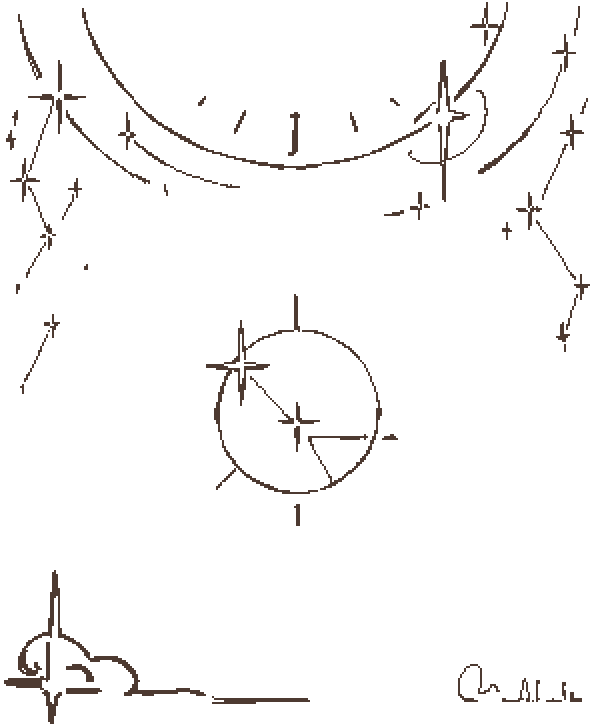
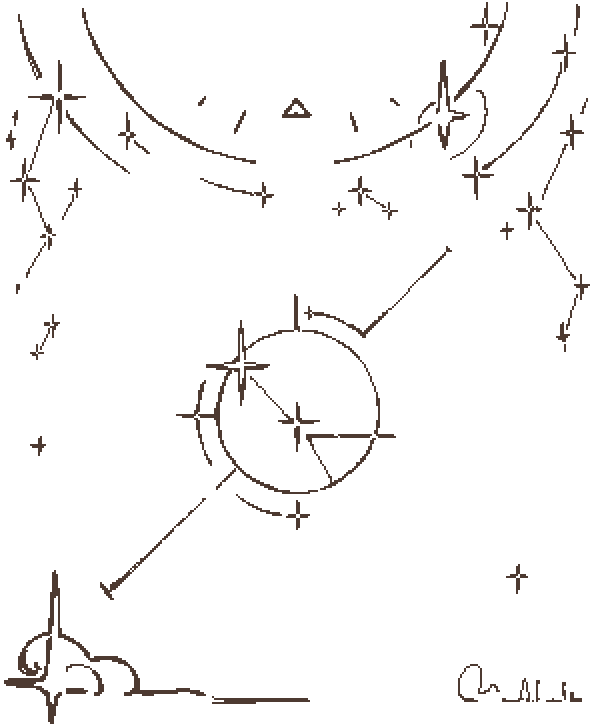
常规同步

diff --git a/Content/UI/NewKnowledgeUnlock/NewKnowledgeBar.cs b/Content/UI/NewKnowledgeUnlock/NewKnowledgeBar.cs
@@ -1,6 +1,7 @@
 using Coralite.Content.CoraliteNotes;
+using Coralite.Core;
 using Coralite.Core.Loaders;
-using Coralite.Core.Systems.KeySystem;
+using Coralite.Helpers;
 using InnoVault.PRT;
 using Microsoft.Xna.Framework.Graphics;
 using Terraria;
@@ -11,10 +12,20 @@ namespace Coralite.Content.UI.NewKnowledgeUnlock
     public class NewKnowledgeBar : UIElement
     {
         public PRTGroup group;
-        public int Timer;
+        public float Timer;
 
         public Vector2 size;
 
+        public static int StartTime = 20;
+        public static int ContiuneTime = 60*4;
+        public static int FadeOutTime= 10;
+
+
+        public NewKnowledgeBar()
+        {
+            this.SetSize(new Vector2(200,120));
+            OverflowHidden = false;
+        }
 
         public override void LeftClick(UIMouseEvent evt)
         {
@@ -26,6 +37,7 @@ namespace Coralite.Content.UI.NewKnowledgeUnlock
         public override void Update(GameTime gameTime)
         {
             base.Update(gameTime);
+            UpdateBar();
         }
 
         public void UpdateBar()
@@ -43,40 +55,73 @@ namespace Coralite.Content.UI.NewKnowledgeUnlock
         protected override void DrawSelf(SpriteBatch spriteBatch)
         {
             NewKnowledgeInfo info = NewKnowledgeState.Infos.First.Value;
+            var dimensions = GetDimensions();
 
-            Rectangle scissorRectangle = spriteBatch.GraphicsDevice.ScissorRectangle;
             SamplerState anisotropicClamp = SamplerState.AnisotropicClamp;
 
+            Effect e;
+
+            #region 绘制线条
+
+            Vector2 linePos = dimensions.Center() - new Vector2(0, dimensions.Height / 6-5);
+            float lineFactor;
+            if (Timer <= StartTime)
+                lineFactor = Helper.SqrtEase(Timer / StartTime);
+            else if (Timer < StartTime + ContiuneTime)
+                lineFactor = 1 - (Timer - StartTime) / ContiuneTime;
+            else
+                lineFactor = 0;
+
+            if (lineFactor != 0)
+            {
+                e = ShaderLoader.GetShader("SinLine");
+                e.Parameters["flowPercent"].SetValue(0.06f);
+                float time = (float)Main.timeForVisualEffects * 0.02f;
+                float flowTime = -(float)Main.timeForVisualEffects * 0.003f;
+                e.Parameters["uTime"].SetValue(time);
+                e.Parameters["uFlowTime"].SetValue(flowTime);
+
+                spriteBatch.End();
+                spriteBatch.Begin(SpriteSortMode.Immediate, BlendState.AlphaBlend, SamplerState.PointWrap, DepthStencilState.None, EffectLoader.OverflowHiddenRasterizerState, e, Main.UIScaleMatrix);
+
+                DrawLine(spriteBatch, linePos, 0);
+            }
+
+            #endregion
+
+            #region 绘制背景
+
+            e = ShaderLoader.GetShader("Waterflow");
+            e.Parameters["uFlowTex"].SetValue(CoraliteAssets.Laser.WaterFlow.Value);
+            e.Parameters["uTime"].SetValue((float)Main.timeForVisualEffects);
+            e.Parameters["addCount"].SetValue(0.2f);
+
             spriteBatch.End();
-            Rectangle clippingRectangle = GetClippingRectangle(spriteBatch);
-
-            Rectangle adjustedClippingRectangle = Rectangle.Intersect(clippingRectangle, spriteBatch.GraphicsDevice.ScissorRectangle);
-            spriteBatch.GraphicsDevice.ScissorRectangle = adjustedClippingRectangle;
-            spriteBatch.GraphicsDevice.RasterizerState = EffectLoader.OverflowHiddenRasterizerState;
-            
-            Effect e = ShaderLoader.GetShader("SinLine");
-            e.Parameters["flowPercent"].SetValue(0.06f);
-            float time = (float)Main.timeForVisualEffects * 0.02f;
-            float flowTime = -(float)Main.timeForVisualEffects * 0.003f;
-            e.Parameters["uTime"].SetValue(time);
-            e.Parameters["uFlowTime"].SetValue(flowTime);
-
             spriteBatch.Begin(SpriteSortMode.Immediate, BlendState.AlphaBlend, SamplerState.PointWrap, DepthStencilState.None, EffectLoader.OverflowHiddenRasterizerState, e, Main.UIScaleMatrix);
 
-            //绘制线条
-            DrawLine(spriteBatch,Vector2.Zero,0);
+            Vector2 BackTop = dimensions.Center() - new Vector2(0, dimensions.Height / 6);
+            float backFactor;
+            if (Timer <= StartTime)
+                backFactor = Timer / StartTime;
+            else if (Timer < StartTime + ContiuneTime)
+                backFactor = 1;
+            else
+                backFactor = (Timer - StartTime - ContiuneTime)/ FadeOutTime;
+
+            DrawBack(spriteBatch, BackTop, new Vector2(dimensions.Width, dimensions.Height * 2 / 3), backFactor);
+
+            #endregion
 
             RasterizerState rasterizerState = spriteBatch.GraphicsDevice.RasterizerState;
 
             spriteBatch.End();
-            spriteBatch.GraphicsDevice.ScissorRectangle = scissorRectangle;
             spriteBatch.GraphicsDevice.RasterizerState = rasterizerState;
             spriteBatch.Begin(SpriteSortMode.Deferred, BlendState.AlphaBlend, anisotropicClamp, DepthStencilState.None, rasterizerState, null, Main.UIScaleMatrix);
 
             group?.DrawInUI(spriteBatch);
         }
 
-        public void DrawLine(SpriteBatch spriteBatch, Vector2 center, float factor)
+        public static void DrawLine(SpriteBatch spriteBatch, Vector2 center, float factor)
         {
             Texture2D tex = CoraliteNoteSystem.NoteConnectLine.Value;
             Vector2 left = center + new Vector2(-80 * factor, 0);
@@ -86,17 +131,20 @@ namespace Coralite.Content.UI.NewKnowledgeUnlock
             spriteBatch.Draw(tex, left, null, Color.White, dir.ToRotation(), new Vector2(0, tex.Height / 2), new Vector2(dir.Length() / tex.Width, 64f / tex.Height), 0, 0);
         }
 
-        public void DrawBack(SpriteBatch spriteBatch)
+        public static void DrawBack(SpriteBatch spriteBatch,Vector2 top,Vector2 size,float factor)
+        {
+            Texture2D tex = CoraliteNoteSystem.NewTextBarBack.Value;
+            Vector2 origin = new Vector2(tex.Width / 2, 0);
+
+            spriteBatch.Draw(tex, top, null, new Color(21, 140, 176)* factor, 0, origin, size / tex.Size(), 0, 0);
+        }
+
+        public void DrawIcon(SpriteBatch spriteBatch, NewKnowledgeInfo info)
         {
 
         }
 
-        public void DrawIcon(SpriteBatch spriteBatch)
-        {
-
-        }
-
-        public void DrawText(SpriteBatch spriteBatch)
+        public void DrawText(SpriteBatch spriteBatch, NewKnowledgeInfo info)
         {
 
         }

diff --git a/Content/CoraliteNotes/SteelChapter/SteelPage1.cs b/Content/CoraliteNotes/SteelChapter/SteelPage1.cs
@@ -1,0 +1,35 @@
+using Microsoft.Xna.Framework.Graphics;
+using Terraria.ID;
+using Terraria.Localization;
+
+namespace Coralite.Content.CoraliteNotes.SteelChapter
+{
+    public class SteelPage1 : ItemShowPage
+    {
+        public static LocalizedText Title { get; private set; }
+        public static LocalizedText Description { get; private set; }
+
+        public override void OnInitialize()
+        {
+            Title = this.GetLocalization(nameof(Title));
+            Description = this.GetLocalization(nameof(Description));
+            AddImages();
+        }
+
+        public override void AddImages()
+        {
+            int x = -260;
+            int y = 100;
+            ItemShowImage i0_0 = NewImage(ItemID.IronBar, new Vector2(x, y), Readfragment.KnowledgeButtonType.None)
+                .SetColor(Color.Brown);
+
+
+        }
+
+        protected override void DrawSelf(SpriteBatch spriteBatch)
+        {
+            DrawTitleH1(spriteBatch, Title, Color.LightGray);
+            DrawParaNormal(spriteBatch, Description, Position.Y + TitleHeight, out _);
+        }
+    }
+}

diff --git a/Content/CoraliteNotes/SteelChapter/SteelKnowledge.cs b/Content/CoraliteNotes/SteelChapter/SteelKnowledge.cs
@@ -1,0 +1,24 @@
+using Coralite.Content.CoraliteNotes.Readfragment;
+using Coralite.Content.Items.Steel;
+using Coralite.Content.UI.UILib;
+using Coralite.Core;
+using Coralite.Core.Systems.KeySystem;
+
+namespace Coralite.Content.CoraliteNotes.SteelChapter
+{
+    public class SteelKnowledge : Knowledge
+    {
+        public override string Texture => AssetDirectory.SteelItems + nameof(SteelBar);
+
+        public override int FirstPageInCoraliteNote => CoraliteNoteUIState.BookPanel.GetPageIndex<SteelPage1>();
+
+        public override KnowledgeButtonType ButtonStyle => KnowledgeButtonType.Metal;
+
+        public override UIPage[] GetUIPages()
+        {
+            return [
+                new SteelPage1()
+                ];
+        }
+    }
+}

diff --git a/Content/CoraliteNotes/GlistentChapter/GlistentChapterPage1.cs b/Content/CoraliteNotes/GlistentChapter/GlistentChapterPage1.cs
@@ -30,14 +30,14 @@ namespace Coralite.Content.CoraliteNotes.GlistentChapter
 
             x += 70;
             Color leafStoneC = new Color(147, 188, 79);
-            ItemShowImage i0_1 = NewImage<LeafStone>(new Vector2(x, y))
+            ItemShowImage i0_1 = NewImage<LeafStone>(new Vector2(x, y), Readfragment.KnowledgeButtonType.Metal)
                 .SetColor(leafStoneC);
             i0_0.AddChainedElement(i0_1);
 
             //叶石装备
-            ItemShowImage i0_2 = NewImage<LeafeoLightArmor>(new Vector2(x, y-190))
+            ItemShowImage i0_2 = NewImage<LeafeoLightArmor>(new Vector2(x, y - 190))
                 .SetColor(leafStoneC);
-            ItemShowImage i0_3 = NewImage<LeafeoHelmet>(new Vector2(x-60, y-120))
+            ItemShowImage i0_3 = NewImage<LeafeoHelmet>(new Vector2(x - 60, y - 120))
                 .SetColor(leafStoneC);
             ItemShowImage i0_4 = NewImage<LeafeoBoots>(new Vector2(x + 60, y - 120))
                 .SetColor(leafStoneC);
@@ -50,7 +50,7 @@ namespace Coralite.Content.CoraliteNotes.GlistentChapter
             i0_1.AddChainedElement(i0_5);
 
 
-            ItemShowImage i1_1 = NewImage<GlistentBar>(new Vector2(0, y), conditions: CoraliteConditions.DownedRediancie)
+            ItemShowImage i1_1 = NewImage<GlistentBar>(new Vector2(0, y), Readfragment.KnowledgeButtonType.Metal, CoraliteConditions.DownedRediancie)
                .SetColor(Coralite.GlistentGreen);
 
             x = 0;
@@ -60,7 +60,7 @@ namespace Coralite.Content.CoraliteNotes.GlistentChapter
             ItemShowImage i1_3 = NewImage(ItemID.CrimtaneBar, new Vector2(-10, y - 90), Readfragment.KnowledgeButtonType.None)
                 .SetColor(Coralite.CrimsonRed);
 
-            ItemShowImage i1_4 = NewImage(ItemID.Diamond, new Vector2(x - 10, y+ 90), Readfragment.KnowledgeButtonType.None)
+            ItemShowImage i1_4 = NewImage(ItemID.Diamond, new Vector2(x - 10, y + 90), Readfragment.KnowledgeButtonType.None)
                 .SetColor(Color.White);
 
             i0_1.AddChainedElement(i1_1);
@@ -71,18 +71,18 @@ namespace Coralite.Content.CoraliteNotes.GlistentChapter
 
             x += 150;
 
-            ItemShowImage i2_1 = NewImage<GlistentHelmet>(new Vector2(x-80, y-200), conditions: CoraliteConditions.DownedRediancie)
-               .SetColor(Coralite.GlistentGreen); 
-            ItemShowImage i2_2 = NewImage<GlistentBreastplate>(new Vector2(x-10, y-160), conditions: CoraliteConditions.DownedRediancie)
+            ItemShowImage i2_1 = NewImage<GlistentHelmet>(new Vector2(x - 80, y - 200), conditions: CoraliteConditions.DownedRediancie)
                .SetColor(Coralite.GlistentGreen);
-            ItemShowImage i2_3 = NewImage<GlistentLegs>(new Vector2(x+60, y-120), conditions: CoraliteConditions.DownedRediancie)
+            ItemShowImage i2_2 = NewImage<GlistentBreastplate>(new Vector2(x - 10, y - 160), conditions: CoraliteConditions.DownedRediancie)
+               .SetColor(Coralite.GlistentGreen);
+            ItemShowImage i2_3 = NewImage<GlistentLegs>(new Vector2(x + 60, y - 120), conditions: CoraliteConditions.DownedRediancie)
                .SetColor(Coralite.GlistentGreen);
 
             i1_1.AddChainedElement(i2_1);
             i1_1.AddChainedElement(i2_2);
             i1_1.AddChainedElement(i2_3);
 
-            ItemShowImage i2_4 = NewImage<GlistentJar>(new Vector2(x -10, y + 160), conditions: CoraliteConditions.DownedRediancie)
+            ItemShowImage i2_4 = NewImage<GlistentJar>(new Vector2(x - 10, y + 160), conditions: CoraliteConditions.DownedRediancie)
                .SetColor(Coralite.GlistentGreen);
             ItemShowImage i2_5 = NewImage<Terranascence>(new Vector2(x + 60, y + 120), conditions: CoraliteConditions.DownedRediancie)
                .SetColor(Coralite.GlistentGreen);
@@ -96,7 +96,7 @@ namespace Coralite.Content.CoraliteNotes.GlistentChapter
 
         protected override void DrawSelf(SpriteBatch spriteBatch)
         {
-            DrawTitleH1(spriteBatch, Title,  Coralite.GlistentGreen);
+            DrawTitleH1(spriteBatch, Title, Coralite.GlistentGreen);
             DrawParaNormal(spriteBatch, Description, Position.Y + TitleHeight, out _);
         }
     }

diff --git a/Core/Assets/CoraliteAssets.cs b/Core/Assets/CoraliteAssets.cs
@@ -356,7 +356,7 @@ namespace Coralite.Core
             public static ATex MultLines { get; private set; }
 
             /// <summary> 
-            /// 多段折现，像是音符连线，字带天蓝色
+            /// 多段折现，像是音符连线，自带天蓝色
             /// </summary>
             public static ATex MusicLine { get; private set; }
 
@@ -366,9 +366,14 @@ namespace Coralite.Core
             public static ATex MultLinesSPA { get; private set; }
 
             /// <summary> 
-            /// 多段折现，像是音符连线，字带天蓝色
+            /// 多段折现，像是音符连线，自带天蓝色
             /// </summary>
             public static ATex MusicLineSPA { get; private set; }
+
+            /// <summary> 
+            /// 水流一样的贴图
+            /// </summary>
+            public static ATex WaterFlow { get; private set; }
         }
 
         /// <summary>

diff --git a/Content/CoraliteNotes/Readfragment/KnowledgeButten.cs b/Content/CoraliteNotes/Readfragment/KnowledgeButten.cs
@@ -22,6 +22,7 @@ namespace Coralite.Content.CoraliteNotes.Readfragment
         Coral,
         Normal,
         Star,
+        Metal,
         None,
     }
 
@@ -35,6 +36,7 @@ namespace Coralite.Content.CoraliteNotes.Readfragment
         public static ATex KnowledgeButtenCoral { get; private set; }
         public static ATex KnowledgeButtenNormal { get; private set; }
         public static ATex KnowledgeButtenStar { get; private set; }
+        public static ATex KnowledgeButtenMetal { get; private set; }
 
         public static ATex NewKnowledge { get; private set; }
 
@@ -50,6 +52,7 @@ namespace Coralite.Content.CoraliteNotes.Readfragment
                 KnowledgeButtonType.Coral => KnowledgeButtenCoral.Value,
                 KnowledgeButtonType.Normal => KnowledgeButtenNormal.Value,
                 KnowledgeButtonType.Star => KnowledgeButtenStar.Value,
+                KnowledgeButtonType.Metal => KnowledgeButtenMetal.Value,
                 _ => null,
             };
         }

diff --git a/Content/CoraliteNotes/GlistentChapter/GlistentKnowledge.cs b/Content/CoraliteNotes/GlistentChapter/GlistentKnowledge.cs
@@ -12,7 +12,7 @@ namespace Coralite.Content.CoraliteNotes.GlistentChapter
 
         public override int FirstPageInCoraliteNote => CoraliteNoteUIState.BookPanel.GetPageIndex<GlistentChapterPage1>();
 
-        public override KnowledgeButtonType ButtonStyle => KnowledgeButtonType.Rune;
+        public override KnowledgeButtonType ButtonStyle => KnowledgeButtonType.Metal;
 
         public override UIPage[] GetUIPages()
         {

diff --git a/Content/CoraliteNotes/Serieses/WonderKnowledges.cs b/Content/CoraliteNotes/Serieses/WonderKnowledges.cs
@@ -2,6 +2,7 @@
 using Coralite.Content.CoraliteNotes.GlistentChapter;
 using Coralite.Content.CoraliteNotes.NightmareChapter;
 using Coralite.Content.CoraliteNotes.SlimeChapter1;
+using Coralite.Content.CoraliteNotes.SteelChapter;
 using Coralite.Core.Systems.KeySystem;
 
 namespace Coralite.Content.CoraliteNotes.Serieses
@@ -15,6 +16,7 @@ namespace Coralite.Content.CoraliteNotes.Serieses
             AddKnowledge<GlistentKnowledge>();
             AddKnowledge<Slime1Knowledge>();
             AddKnowledge<ConstellationKnowledge>();
+            AddKnowledge<SteelKnowledge>();
             AddKnowledge<NightmareKnowledge>();
         }
     }

diff --git a/Content/CoraliteNotes/CoraliteNoteSystem.cs b/Content/CoraliteNotes/CoraliteNoteSystem.cs
@@ -29,6 +29,7 @@ namespace Coralite.Content.CoraliteNotes
         public static ATex NoteConnectLine { get; set; }
         public static ATex ItemShowMarkTex { get; set; }
         public static ATex CoraliteNoteOpenAnmi { get; set; }
+        public static ATex NewTextBarBack { get; set; }
 
         //public enum RewardType
         //{